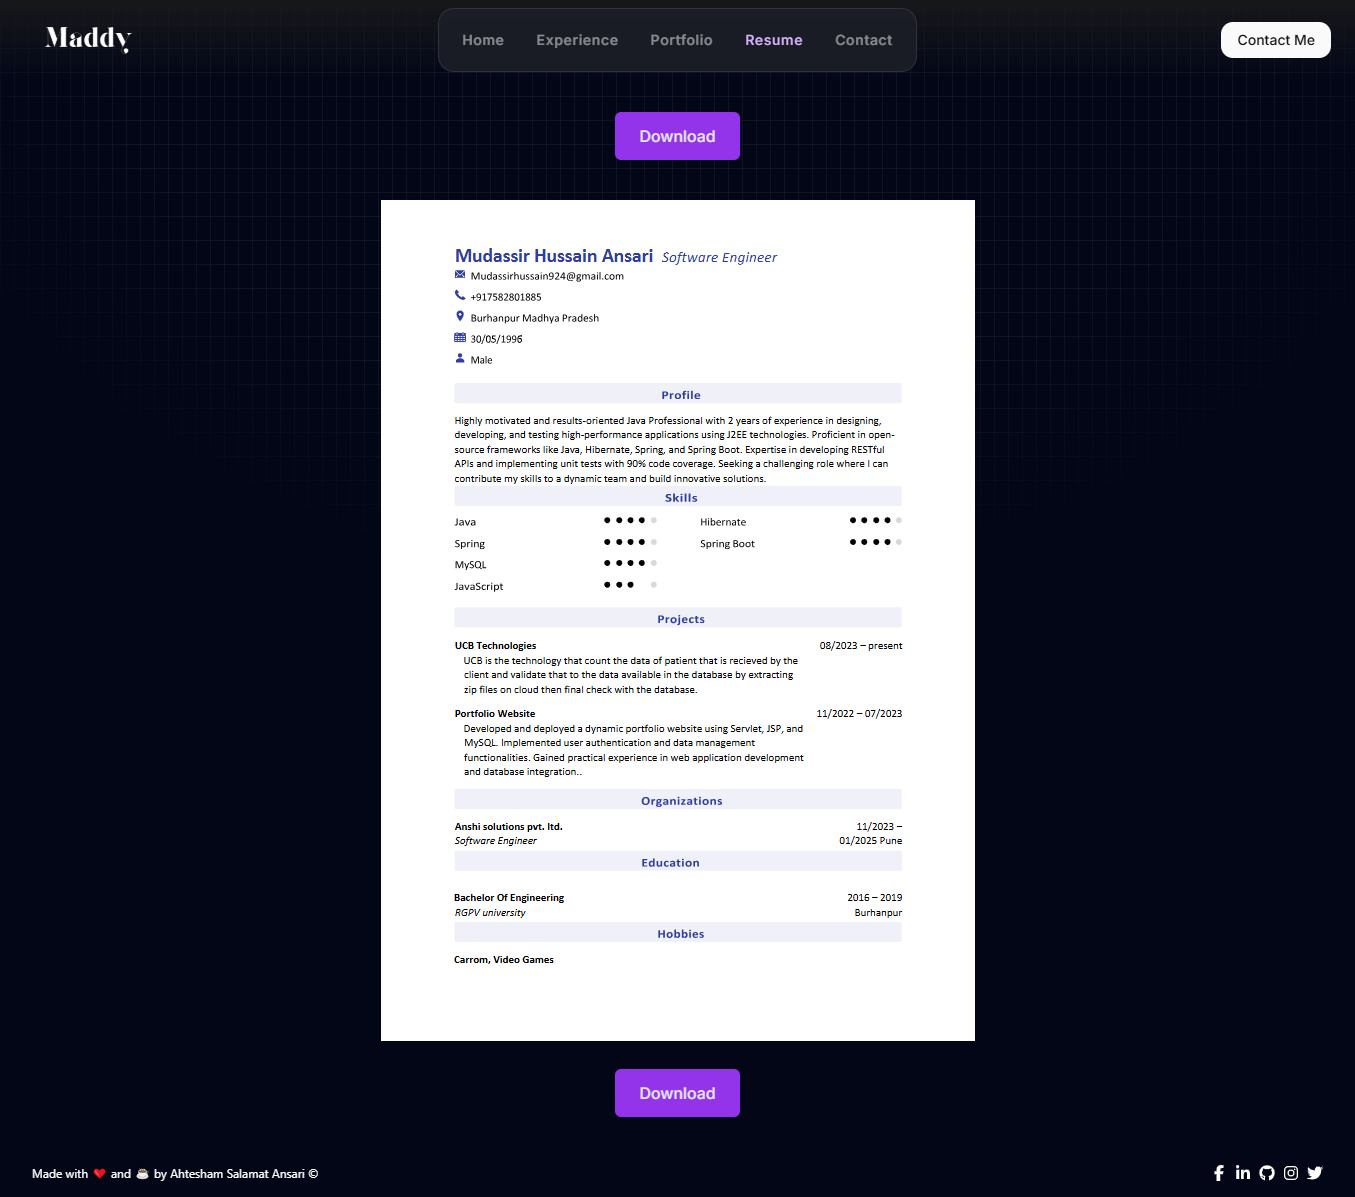
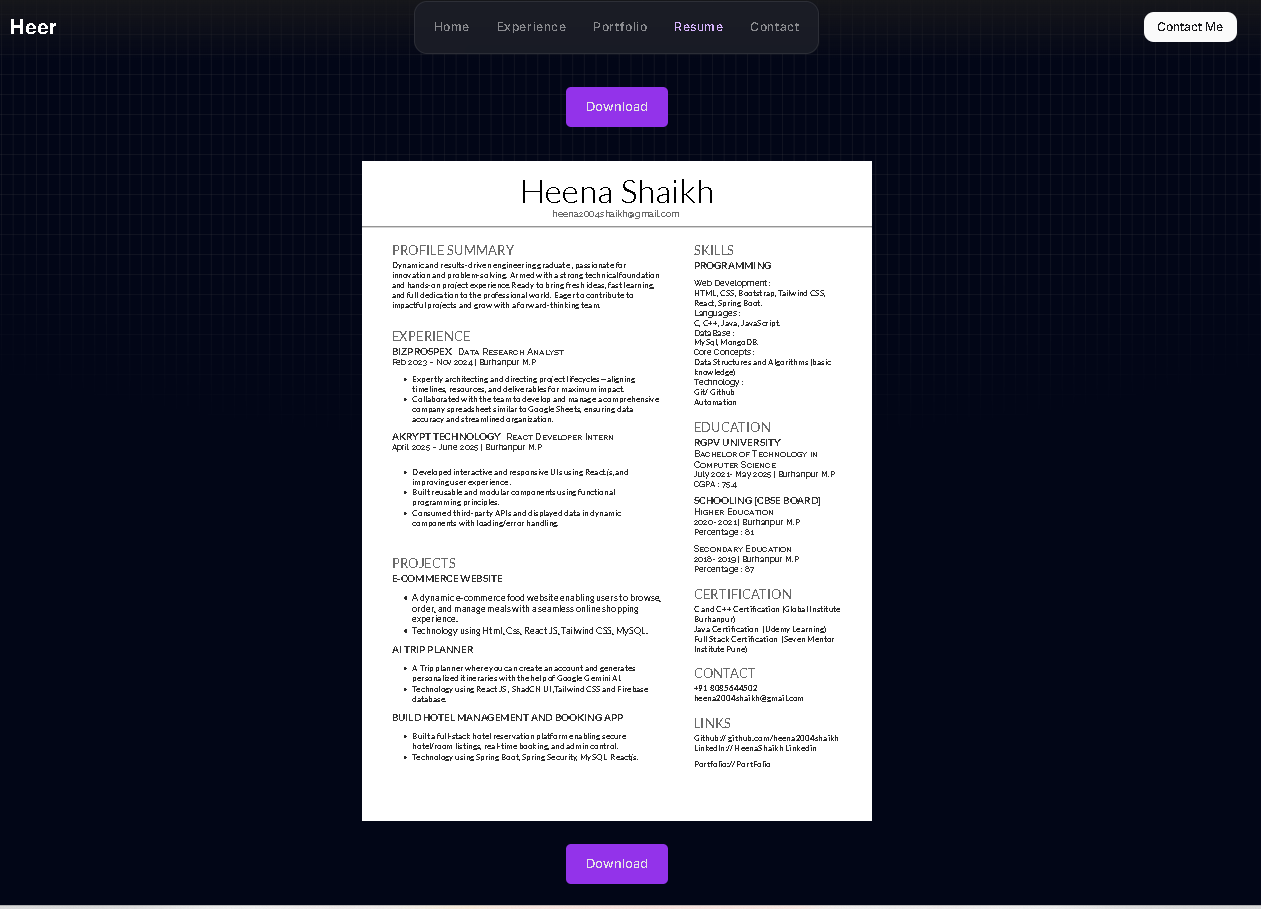
first commit

diff --git a/react-portfolio/src/constants/index.js b/react-portfolio/src/constants/index.js
@@ -6,13 +6,21 @@ import blog1 from "../assets/projects/blog1.webp";
 import blog2 from "../assets/projects/blog2.webp";
 
 
-
-export const HERO_CONTENT = `With a knack for both the front end and back end, I weave seamless digital experiences from pixel-perfect design to robust server-side logic. But I don’t just stop at building great software — I turn data into actionable insights that drive success. Through innovative lead generation strategies and meticulous data analysis, I ensure businesses not only reach their audience but captivate them. Let’s transform potential into performance!`;
+ 
+export const HERO_CONTENT = ` Dynamic and results-driven engineering graduate,passionate for innovation and problem-solving. Armed with a strong technical foundation and hands-on project experience.Ready to bring fresh ideas,fast learning, and full dedication to the professional world. Eager to contribute to impactful projects and grow with a forward-thinking team.`;
 export const ABOUT_TEXT = `Whether you're looking to brainstorm, collaborate, or get technical advice, I’m here to help your projects reach new heights. Let's connect and make something extraordinary happen!`;
 export const iconClass = ["h-12 w-12 hover:scale-125 hover:cursor-pointer transition-all ease-in-out duration:900"];
 export const bggradient = ["absolute bottom-0 left-0 right-0 top-0 bg-[linear-gradient(to_right,#4f4f4f2e_1px,transparent_1px),linear-gradient(to_bottom,#4f4f4f2e_1px,transparent_1px)] bg-[size:14px_24px] [mask-image:radial-gradient(ellipse_60%_50%_at_50%_0%,#000_70%,transparent_100%)]"]
 export const EXPERIENCES = [
   
+
+  {
+    year: "2025 - Present",
+    role: "Front-End Developer",
+    company: "CallFairy",
+    description: `I am currently working as a Frontend Developer at Callfary, where I specialize in building modern, responsive, and user-friendly web applications using React and Tailwind CSS. My role involves translating design concepts into interactive interfaces, optimizing performance, and ensuring cross-browser compatibility. At Callfary, I collaborate closely with the team to create scalable solutions that align with business goals while delivering a seamless user experience. I stay updated with the latest frontend technologies and best practices to continuously enhance the quality of our products.`,
+    technologies: ["Redux", "Tailwind Css", "MS SQL Server", "React","Python"],
+  },
   {
     year: "2025 - 2025",
     role: "Software Developer Intern",
@@ -27,13 +35,7 @@ export const EXPERIENCES = [
     description: `Drive business growth through innovative lead generation, engaging in inbound & outbound calling, LinkedIn lead generation, and crafting compelling cold emails. Build strong customer relationships, manage sales pipelines, and collaborate with teams to exceed sales targets.`,
     technologies: ["Linkedin Sales Navigator", "Cold Calling", "apollo.io", "Zoominfo"],
   },
-  {
-    year: "2021 - 2022",
-    role: "Web Developer",
-    company: "Free Lencer",
-    description: `I am working as a Freelance Web Developer, where I design and develop responsive and visually appealing websites tailored to client requirements. I work independently with clients to understand their business needs and deliver customized web solutions using HTML, CSS, JavaScript, React, and Tailwind CSS. My projects range from personal portfolios and business landing pages to fully functional dynamic websites. I handle the complete development process—from wireframing and UI design to deployment and maintenance.I stay up to date with modern web trends and continuously improve my skills to offer the best solutions to clients.`,
-    technologies: ["Redux", "Tailwind Css", "MS SQL Server", "React"],
-  },
+  
 
 
 ];
@@ -66,6 +68,7 @@ export const CERTIFICATIONS = [
     university: "Seven Mentor, Pune",
     description: `Gained expertise in both front-end and back-end development, including technologies such as HTML, CSS, JavaScript, and Node.js.Proficient in creating dynamic web applications, managing databases, and ensuring seamless user experiences.`,
   },
+  
 ]
 
 export const PROJECTS = [
@@ -75,7 +78,7 @@ export const PROJECTS = [
     description:
       "Taking quizzes should be fun and insightful — not boring or unstructured. That’s why I built a full-stack Quiz Application with user authentication, role-based access (Admin & User), test creation, submission tracking, and real-time results. This project combines modern frontend technologies with a robust Java backend to deliver a seamless quiz experience.",
     technologies: ["React.js", "TailwindCSS", "Spring Boot", "JWT", "MySQL", "Spring Security", "React Router"],
-    link: "https://github.com/maddy046/CodeClauseInternship_PasswordGenerator"
+    link: "https://github.com/heena2004shaikh/QUIZ_APP_TASK"
   },
  
   {
@@ -84,15 +87,15 @@ export const PROJECTS = [
     description:
       "Planning the perfect trip should be exciting — not overwhelming. That’s why I built an intelligent and user-friendly AI Trip Planner that generates personalized itineraries with the help of Google Gemini AI. This project combines powerful tools and modern UI frameworks to deliver seamless travel planning right in your browser.",
     technologies: ["React.js", " Tailwind CSS", "Firebase", "Gemini AI", "React Router"],
-    link: "https://github.com/maddy046/PortfolioWebsite"
+    link: "https://github.com/heena2004shaikh/AI_Trip_Planner_"
   },
   {
-    title: "E-Learning Website",  
+    title: "E-commerce Website",  
     image: project3,
     description:
-      "Built an e-learning platform using HTML, CSS, and JavaScript for the front end, and integrated with backend technologies to provide interactive courses and assessments.",
+      "A dynamic e-commerce food website enabling users to browse,order, and manage meals with a seamless online shopping experience.Technology using Html,Css,ReactJS,TailwindCSS,MySQL",
     technologies: ["ReactJS", "Springboot", "HTML5", "mySQL"],
-    link:"https://github.com/maddy046/CourseWebsite"
+    link:"https://github.com/heena2004shaikh/Fresh-Crat"
   },
 
 
@@ -118,17 +121,17 @@ export const SOCIAL_MEDIA = [
   {
     name: "Instagram",
     icon: "fab fa-instagram",
-    url: "https://www.instagram.com/maddy01432",
+    url: "",
   },
   {
     name: "Twitter",
     icon: "fab fa-twitter",
-    url: "https://www.twitter.com/your-username",
+    url: "",
   },
   {
     name: "Facebook",
     icon: "fab fa-facebook-f",
-    url: "https://www.facebook.com/profile.php?id=100007339538234",
+    url: "",
   },
 ]
 

diff --git a/react-portfolio/index.html b/react-portfolio/index.html
@@ -1,34 +1,65 @@
-<!doctype html>
-<html lang="en" class="scrollbar-thin scrollbar-track-zinc-800 scrollbar-thumb-zinc-500">
+<!DOCTYPE html>
+<html
+  lang="en"
+  class="scrollbar-thin scrollbar-track-zinc-800 scrollbar-thumb-zinc-500"
+>
+  <head>
+    <meta charset="UTF-8" />
+    <link
+      rel="apple-touch-icon"
+      sizes="180x180"
+      href=""
+    />
+    <link
+      rel="icon"
+      type="image/png"
+      sizes="32x32"
+      href=""
+    />
+    <link
+      rel="icon"
+      type="image/png"
+      sizes="16x16"
+      href=""
+    />
+    <link rel="manifest" href="./src/assets/favicon/site.webmanifest" />
+    <link
+      rel="stylesheet"
+      href="https://fonts.googleapis.com/css2?family=Material+Symbols+Rounded:opsz,wght,FILL,GRAD@24,400,0,0"
+    />
+    <meta
+      name="title"
+      content="Heena Shaikh | Expert Full Stack Developer"
+    />
+    <meta
+      name="description"
+      content="Discover the portfolio of Heena Shaikh, a skilled full stack developer specializing in server-side architecture, database management, and scalable web solutions."
+    />
+    <meta
+      name="keywords"
+      content="Heena Shaikh, backend developer, Full Stack Developer , server-side architecture, database management, scalable web solutions, API development, RESTful services, software engineering"
+    />
+    <meta name="author" content="Heena Shaikh" />
+    <meta
+      property="og:title"
+      content="Heena Shaikh | Fullstack Development Specialist"
+    />
+    <meta
+      property="og:description"
+      content="Explore the full stack development expertise of Heena Shaikh. Specializing in server-side solutions, database management, and more."
+    />
+    <meta property="og:type" content="website" />
+    <meta
+      property="og:url"
+      content="https://heenashaikh.netlify.app/"
+    />
+   
+    <meta name="viewport" content="width=device-width, initial-scale=1.0" />
+    <title>Full Stack Developer | Heena Shaikh</title>
+  </head>
 
-<head>
-  <meta charset="UTF-8" />
-  <link rel="apple-touch-icon" sizes="180x180" href="./src/assets/favicon/apple-touch-icon.png">
-  <link rel="icon" type="image/png" sizes="32x32" href="./src/assets/favicon/favicon-32x32.png">
-  <link rel="icon" type="image/png" sizes="16x16" href="./src/assets/favicon/favicon-16x16.png">
-  <link rel="manifest" href="./src/assets/favicon/site.webmanifest">
-  <link rel="stylesheet"
-    href="https://fonts.googleapis.com/css2?family=Material+Symbols+Rounded:opsz,wght,FILL,GRAD@24,400,0,0" />
-  <meta name="title" content="Mudassir Hussain Ansari | Expert Full Stack Developer">
-  <meta name="description"
-    content="Discover the portfolio of Mudassir Hussain Ansari, a skilled full stack developer specializing in server-side architecture, database management, and scalable web solutions.">
-  <meta name="keywords"
-    content="Mudassir Hussain Ansari, backend developer, Full Stack Developer , server-side architecture, database management, scalable web solutions, API development, RESTful services, software engineering">
-  <meta name="author" content="Ahtesham Salamat Ansari">
-  <meta property="og:title" content="Mudassir Hussain Ansari | Fullstack Development Specialist">
-  <meta property="og:description"
-    content="Explore the full stack development expertise of Mudassir Hussain Ansari. Specializing in server-side solutions, database management, and more.">
-  <meta property="og:type" content="website">
-  <meta property="og:url" content="https://mudassirhussainansari.netlify.app/">
-  <meta property="og:image" content="https://mudassirhussainansari.netlify.app/assets/profileUpdated-BUHMVC7r.webp">
-  <meta name="viewport" content="width=device-width, initial-scale=1.0">
-  <title>Top Full Stack Developer | Mudassir Hussain Ansari</title>
-  
-</head>
-
-<body>
-  <div id="root"></div>
-  <script type="module" src="/src/main.jsx"></script>
-</body>
-
+  <body>
+    <div id="root"></div>
+    <script type="module" src="/src/main.jsx"></script>
+  </body>
 </html>

diff --git a/react-portfolio/src/components/Footer/Footer.jsx b/react-portfolio/src/components/Footer/Footer.jsx
@@ -8,13 +8,13 @@ const Footer = () => {
         <h3 className="font-sans text-xs text-center"></h3>
       </div>
       <div className="flex justify-between items-center">
-        <h3 className="font-sans text-xs">Made with ❤ and ☕ by Ahtesham Salamat Ansari © </h3>
+        <h3 className="font-sans text-xs">Made with ❤ and ☕ by Heena Shaikh © </h3>
         <div className="flex items-center gap-2 z-10">
-          <a  href="https://www.facebook.com/profile.php?id=100007339538234" target='_blank'><FaFacebookF className='hover:scale-90 hover:cursor-pointer hover:transition-all hover:ease-in-out' /></a>
-          <a  href="https://www.linkedin.com/in/mudassirhussainansari" target='_blank'><FaLinkedinIn className='hover:scale-90 hover:cursor-pointer hover:transition-all hover:ease-in-out' /></a>
-          <a  href="https://github.com/maddy046" target='_blank'><FaGithub className='hover:scale-90 hover:cursor-pointer hover:transition-all hover:ease-in-out' /></a>
-          <a  href="https://www.instagram.com/maddy01432" target='_blank'><FaInstagram className='hover:scale-90 hover:cursor-pointer hover:transition-all hover:ease-in-out' /></a>
-          <a  href="https://www.twitter.com/your-username" target='_blank'><FaTwitter className='hover:scale-90 hover:cursor-pointer hover:transition-all hover:ease-in-out' /></a>
+          <a  href="" target='_blank'><FaFacebookF className='hover:scale-90 hover:cursor-pointer hover:transition-all hover:ease-in-out' /></a>
+          <a  href="https://www.linkedin.com/in/heena-shaikh-556731353/" target='_blank'><FaLinkedinIn className='hover:scale-90 hover:cursor-pointer hover:transition-all hover:ease-in-out' /></a>
+          <a  href="https://github.com/heena2004shaikh" target='_blank'><FaGithub className='hover:scale-90 hover:cursor-pointer hover:transition-all hover:ease-in-out' /></a>
+          <a  href="" target='_blank'><FaInstagram className='hover:scale-90 hover:cursor-pointer hover:transition-all hover:ease-in-out' /></a>
+          <a  href="" target='_blank'><FaTwitter className='hover:scale-90 hover:cursor-pointer hover:transition-all hover:ease-in-out' /></a>
         </div>
       </div>
     </footer>

diff --git a/react-portfolio/src/components/Home/Header.jsx b/react-portfolio/src/components/Home/Header.jsx
@@ -1,6 +1,6 @@
 import React, { useState, useEffect } from 'react';
 import { Link, useLocation } from 'react-router-dom';
-import logo from "../../assets/logo.png";
+// import logo from "../../assets/logo.png";
 import Navbar from './Navbar';
 
 const Header = () => {
@@ -23,8 +23,7 @@ const Header = () => {
     <header className='fixed top-0 left-0 w-full h-20 flex items-center z-40 bg-gradient-to-b from-zinc-900 to-zinc-900/0'>
       <div className='max-w-screen-2xl w-full mx-auto px-4 flex justify-between items-center md:px-6 md:grid md:grid-cols-[1fr,3fr,1fr]'>
         <h1 className='px-4'>
-          <Link to="/" />
-          <img width={95} height={95} src={logo} alt="Logo" />
+          <Link to="/" className="text-2xl font-bold text-white">Heer</Link>
         </h1>
         <div className='relative md:justify-self-center'>
           {/* Mobile Menu Toggle Button */}

diff --git a/react-portfolio/src/components/Contact/Contact.jsx b/react-portfolio/src/components/Contact/Contact.jsx
@@ -12,6 +12,8 @@ const Contact = () => {
   });
   const [isSubmitting, setIsSubmitting] = useState(false);
 
+
+  
   // Handle form field changes
   const handleChange = (e) => {
     const { name, value } = e.target;
@@ -32,7 +34,7 @@ const Contact = () => {
       // Send the form using emailjs
       await emailjs.sendForm(
         'service_2d1kczj', // Replace with your service ID
-        'service_2d1kczj', // Replace with your template ID
+        'template_q04v2sd', // Replace with your template ID
         form.current, // Use the form reference
         'Kmp1W_xa03wQPjsA2' // Replace with your public API key
       );

diff --git a/react-portfolio/constants/index.js b/react-portfolio/constants/index.js
@@ -40,7 +40,7 @@ export const EXPERIENCES = [
 
 export const PROJECTS = [
   {
-    title: "E-Commerce Website",
+    title: "",
     image: project1,
     description:
       "A fully functional e-commerce website with features like product listing, shopping cart, and user authentication.",

diff --git a/react-portfolio/README.md b/react-portfolio/README.md
@@ -1,6 +1,6 @@
-# Maddy's Portfolio Website 🚀
+# Heena's Portfolio Website 🚀
 
-A beautifully crafted portfolio website created as a gift for Mudassir Hussain Ansari (Maddy) by Ahtesham Salamat Ansari. This portfolio showcases Maddy's journey, projects, and technical expertise through an interactive and animated interface.
+A beautifully crafted portfolio website created by me. This portfolio showcases my journey, projects, and technical expertise through an interactive and animated interface.
 
 ## ⚡ Tech Stack
 
@@ -14,12 +14,12 @@ A beautifully crafted portfolio website created as a gift for Mudassir Hussain A
 
 ## 🌐 Live Demo
 
-[![Live Demo](https://img.shields.io/badge/Live%20Demo-Click%20Here-brightgreen)](https://mudassirhussainansari.netlify.app/)
+[![Live Demo](https://img.shields.io/badge/Live%20Demo-Click%20Here-brightgreen)](https://heenashaikh.netlify.app/)
 
 ## 📸 Website Preview
 
 ### Home Section
-![Home Section Preview](./src/assets/extras/maddy.png)
+![Home Section Preview](./src/assets/extras/heer.png)
 
 
 
@@ -42,27 +42,27 @@ A beautifully crafted portfolio website created as a gift for Mudassir Hussain A
 ## 🌟 Features
 
 ### 🏠 Home
-Step into Maddy's digital world with a dynamic landing page featuring smooth animations powered by Framer Motion. Get to know his expertise and passion for development through an engaging introduction that highlights his professional journey.
+Step into Heena's digital world with a dynamic landing page featuring smooth animations powered by Framer Motion. Get to know his expertise and passion for development through an engaging introduction that highlights his professional journey.
 
 ### 💼 Work Experience
-Explore Maddy's professional journey through an interactive timeline of projects and achievements. Each entry is beautifully animated and provides detailed insights into his contributions and the technologies utilized.
+Explore Heena's professional journey through an interactive timeline of projects and achievements. Each entry is beautifully animated and provides detailed insights into his contributions and the technologies utilized.
 
 ### 🎨 Portfolio
-Discover Maddy's projects through an animated gallery that showcases his technical versatility. Each project card reveals detailed information about:
+Discover Heena's projects through an animated gallery that showcases his technical versatility. Each project card reveals detailed information about:
 - Project objectives and challenges
 - Technical implementation details
 - Live demos and GitHub repositories
 - Key learnings and outcomes
 
 ### 📄 Resume
-Access Maddy's professional background through an interactive resume section featuring:
+Access Heena's professional background through an interactive resume section featuring:
 - Downloadable PDF format
 - Smooth rendering with react-pdf
 - Responsive design for all devices
 - Detailed skill breakdown and certifications
 
 ### 📬 Contact
-Connect with Maddy through a modern, responsive contact form. The section includes:
+Connect with Heena through a modern, responsive contact form. The section includes:
 - Direct email integration
 - Social media links
 - Professional networks
@@ -115,24 +115,17 @@ Implemented with industry best practices:
 
 This project is licensed under the MIT License - see the [LICENSE.md](LICENSE.md) file for details.
 
-## 🤝 Connect With Maddy
+## 🤝 Connect With Heena
 
-Feel free to reach out and connect with Maddy on:
+Feel free to reach out and connect with Heena on:
 
 <div align="center">
-  <a href="https://www.linkedin.com/in/mudassirhussainansari" target="_blank">
+  <a href="https://www.linkedin.com/in/heena-shaikh-556731353/" target="_blank">
     <img src="https://skillicons.dev/icons?i=linkedin" alt="LinkedIn" />
   </a>
-  <a href="https://github.com/maddy046" target="_blank">
+  <a href="https://github.com/heena2004shaikh" target="_blank">
     <img src="https://skillicons.dev/icons?i=github" alt="GitHub" />
-  </a>
-  <a href="https://www.instagram.com/maddy01432" target="_blank">
-    <img src="https://skillicons.dev/icons?i=instagram" alt="Instagram" />
   </a>
 </div>
 
 ---
-
-<div align="center">
-  Made with ❤ and ☕ by Ahtesham Salamat Ansari
-</div>
